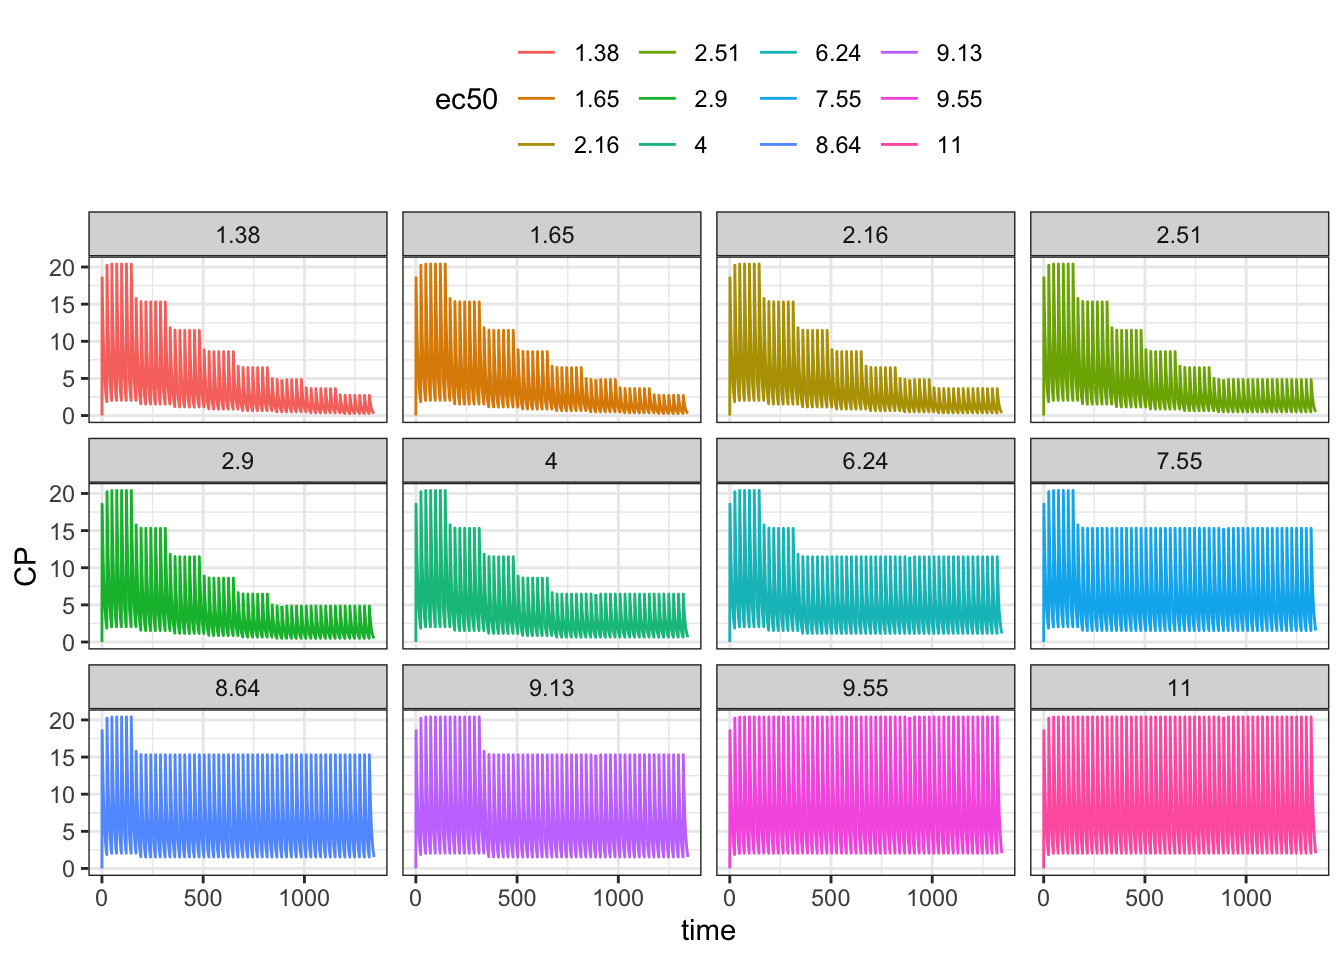
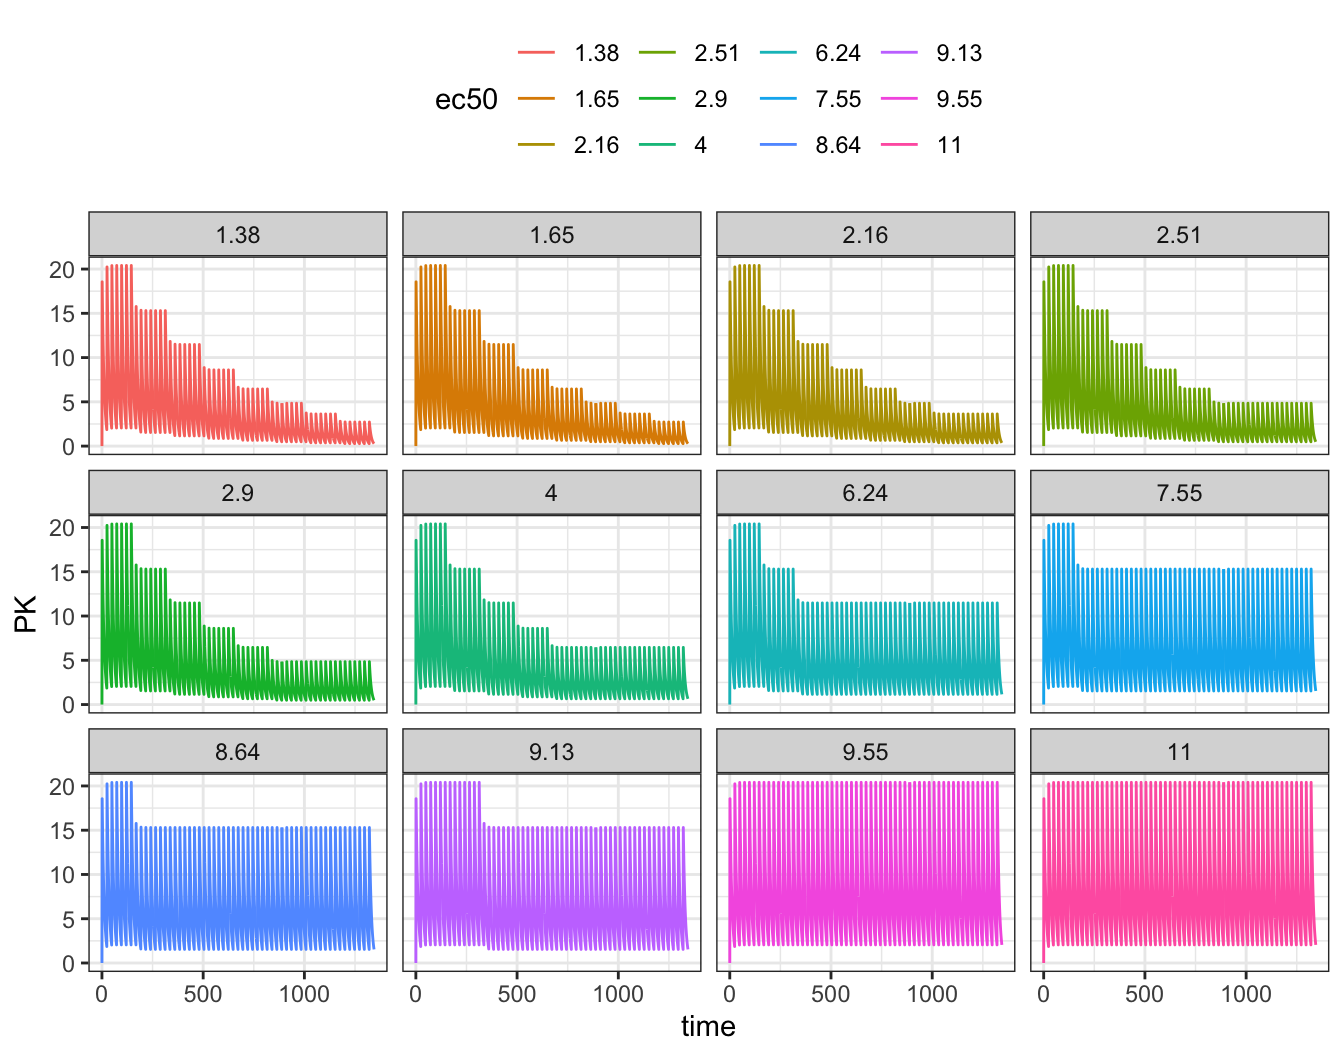
clean up

diff --git a/docs/posts/2024-new-1-4-0-evtools.html b/docs/posts/2024-new-1-4-0-evtools.html
@@ -732,7 +732,7 @@ See the full model 4 code
 <span id="cb29-39"><a href="#cb29-39" aria-hidden="true" tabindex="-1"></a>dxdt_PD <span class="op">=</span> KIN <span class="op">*</span> <span class="op">(</span><span class="dv">1</span><span class="op">-</span>inh<span class="op">)</span> <span class="op">-</span> KOUT <span class="op">*</span> PD<span class="op">;</span></span>
 <span id="cb29-40"><a href="#cb29-40" aria-hidden="true" tabindex="-1"></a></span>
 <span id="cb29-41"><a href="#cb29-41" aria-hidden="true" tabindex="-1"></a>$ERROR</span>
-<span id="cb29-42"><a href="#cb29-42" aria-hidden="true" tabindex="-1"></a>capture CP <span class="op">=</span> CENT<span class="op">/</span>V<span class="op">;</span></span>
+<span id="cb29-42"><a href="#cb29-42" aria-hidden="true" tabindex="-1"></a>capture PK <span class="op">=</span> CENT<span class="op">/</span>V<span class="op">;</span></span>
 <span id="cb29-43"><a href="#cb29-43" aria-hidden="true" tabindex="-1"></a></span>
 <span id="cb29-44"><a href="#cb29-44" aria-hidden="true" tabindex="-1"></a><span class="cf">if</span><span class="op">(</span>fmod<span class="op">(</span>TIME<span class="op">,</span> <span class="dv">168</span><span class="op">)==</span><span class="dv">0</span> <span class="op">&amp;&amp;</span> PD <span class="op">&lt;</span> <span class="dv">3000</span><span class="op">)</span> <span class="op">{</span></span>
 <span id="cb29-45"><a href="#cb29-45" aria-hidden="true" tabindex="-1"></a>  reg<span class="op">.</span>amt<span class="op">(</span>reg<span class="op">.</span>amt<span class="op">()</span> <span class="op">*</span> <span class="fl">0.75</span><span class="op">);</span></span>
@@ -754,7 +754,7 @@ See the full model 4 code
 <div class="sourceCode cell-code" id="cb30"><pre class="sourceCode r code-with-copy"><code class="sourceCode r"><span id="cb30-1"><a href="#cb30-1" aria-hidden="true" tabindex="-1"></a>idata <span class="ot">&lt;-</span> <span class="fu">expand.idata</span>(<span class="at">ID =</span> <span class="fu">seq</span>(<span class="dv">12</span>), <span class="at">DOSE =</span> <span class="dv">200</span>, <span class="at">UNTIL =</span> <span class="dv">2400</span>)</span></code><button title="Copy to Clipboard" class="code-copy-button"><i class="bi"></i></button></pre></div>
 </div>
 <div class="cell">
-<div class="sourceCode cell-code" id="cb31"><pre class="sourceCode r code-with-copy"><code class="sourceCode r"><span id="cb31-1"><a href="#cb31-1" aria-hidden="true" tabindex="-1"></a>mod <span class="ot">&lt;-</span> <span class="fu">mread</span>(<span class="st">"evtools-4.mod"</span>, <span class="at">outvars =</span> <span class="st">"PD,CP,dose,ec50"</span>)</span></code><button title="Copy to Clipboard" class="code-copy-button"><i class="bi"></i></button></pre></div>
+<div class="sourceCode cell-code" id="cb31"><pre class="sourceCode r code-with-copy"><code class="sourceCode r"><span id="cb31-1"><a href="#cb31-1" aria-hidden="true" tabindex="-1"></a>mod <span class="ot">&lt;-</span> <span class="fu">mread</span>(<span class="st">"evtools-4.mod"</span>, <span class="at">outvars =</span> <span class="st">"PK,PD,dose,ec50"</span>)</span></code><button title="Copy to Clipboard" class="code-copy-button"><i class="bi"></i></button></pre></div>
 <div class="cell-output cell-output-stderr">
 <pre><code>Building evtools-4_mod ... done.</code></pre>
 </div>
@@ -763,14 +763,13 @@ See the full model 4 code
 <span id="cb33-3"><a href="#cb33-3" aria-hidden="true" tabindex="-1"></a>out <span class="ot">&lt;-</span> <span class="fu">mrgsim</span>(</span>
 <span id="cb33-4"><a href="#cb33-4" aria-hidden="true" tabindex="-1"></a>  mod, </span>
 <span id="cb33-5"><a href="#cb33-5" aria-hidden="true" tabindex="-1"></a>  <span class="at">idata =</span> idata, </span>
-<span id="cb33-6"><a href="#cb33-6" aria-hidden="true" tabindex="-1"></a>  <span class="at">carry_out =</span> <span class="st">"dose_start = DOSE"</span>,</span>
-<span id="cb33-7"><a href="#cb33-7" aria-hidden="true" tabindex="-1"></a>  <span class="at">end =</span> <span class="dv">8</span><span class="sc">*</span><span class="dv">168</span></span>
-<span id="cb33-8"><a href="#cb33-8" aria-hidden="true" tabindex="-1"></a>)</span></code><button title="Copy to Clipboard" class="code-copy-button"><i class="bi"></i></button></pre></div>
+<span id="cb33-6"><a href="#cb33-6" aria-hidden="true" tabindex="-1"></a>  <span class="at">end =</span> <span class="dv">8</span><span class="sc">*</span><span class="dv">168</span></span>
+<span id="cb33-7"><a href="#cb33-7" aria-hidden="true" tabindex="-1"></a>)</span></code><button title="Copy to Clipboard" class="code-copy-button"><i class="bi"></i></button></pre></div>
 </div>
 <p>Look at PK, PD, and dose versus time; I’ll facet the plots by the simulated EC50, from lowest to highest.</p>
 <p>First, concentration versus time</p>
 <div class="cell">
-<div class="sourceCode cell-code" id="cb34"><pre class="sourceCode r code-with-copy"><code class="sourceCode r"><span id="cb34-1"><a href="#cb34-1" aria-hidden="true" tabindex="-1"></a><span class="fu">ggplot</span>(out, <span class="fu">aes</span>(time, CP, <span class="at">col =</span> ec50)) <span class="sc">+</span> </span>
+<div class="sourceCode cell-code" id="cb34"><pre class="sourceCode r code-with-copy"><code class="sourceCode r"><span id="cb34-1"><a href="#cb34-1" aria-hidden="true" tabindex="-1"></a><span class="fu">ggplot</span>(out, <span class="fu">aes</span>(time, PK, <span class="at">col =</span> ec50)) <span class="sc">+</span> </span>
 <span id="cb34-2"><a href="#cb34-2" aria-hidden="true" tabindex="-1"></a>  <span class="fu">geom_line</span>() <span class="sc">+</span> <span class="fu">facet_wrap</span>(<span class="sc">~</span>ec50)</span></code><button title="Copy to Clipboard" class="code-copy-button"><i class="bi"></i></button></pre></div>
 <div class="cell-output-display">
 <div>
@@ -780,10 +779,11 @@ See the full model 4 code
 </div>
 </div>
 </div>
-<p>Next, pharmacodynamics versus time</p>
+<p>Next, pharmacodynamics versus time; remember, we’re trying to keep the predose response above 3,000</p>
 <div class="cell">
 <div class="sourceCode cell-code" id="cb35"><pre class="sourceCode r code-with-copy"><code class="sourceCode r"><span id="cb35-1"><a href="#cb35-1" aria-hidden="true" tabindex="-1"></a><span class="fu">ggplot</span>(out, <span class="fu">aes</span>(time, PD, <span class="at">col =</span> ec50)) <span class="sc">+</span> </span>
-<span id="cb35-2"><a href="#cb35-2" aria-hidden="true" tabindex="-1"></a>  <span class="fu">geom_line</span>() <span class="sc">+</span> <span class="fu">facet_wrap</span>(<span class="sc">~</span>ec50)</span></code><button title="Copy to Clipboard" class="code-copy-button"><i class="bi"></i></button></pre></div>
+<span id="cb35-2"><a href="#cb35-2" aria-hidden="true" tabindex="-1"></a>  <span class="fu">geom_hline</span>(<span class="at">yintercept =</span> <span class="dv">3000</span>, <span class="at">lty =</span> <span class="dv">2</span>) <span class="sc">+</span> </span>
+<span id="cb35-3"><a href="#cb35-3" aria-hidden="true" tabindex="-1"></a>  <span class="fu">geom_line</span>() <span class="sc">+</span> <span class="fu">facet_wrap</span>(<span class="sc">~</span>ec50)</span></code><button title="Copy to Clipboard" class="code-copy-button"><i class="bi"></i></button></pre></div>
 <div class="cell-output-display">
 <div>
 <figure class="figure">
@@ -808,34 +808,34 @@ See the full model 4 code
 <div class="cell">
 <div class="sourceCode cell-code" id="cb37"><pre class="sourceCode r code-with-copy"><code class="sourceCode r"><span id="cb37-1"><a href="#cb37-1" aria-hidden="true" tabindex="-1"></a>out <span class="sc">%&gt;%</span> <span class="fu">group_by</span>(ID) <span class="sc">%&gt;%</span> <span class="fu">slice</span>(<span class="fu">n</span>()) <span class="sc">%&gt;%</span> <span class="fu">ungroup</span>() <span class="sc">%&gt;%</span> <span class="fu">arrange</span>(ec50)</span></code><button title="Copy to Clipboard" class="code-copy-button"><i class="bi"></i></button></pre></div>
 <div class="cell-output cell-output-stdout">
-<pre><code># A tibble: 12 × 7
-      ID  time dose_start    PD ec50     CP  dose
-   &lt;dbl&gt; &lt;dbl&gt;      &lt;dbl&gt; &lt;dbl&gt; &lt;fct&gt; &lt;dbl&gt; &lt;dbl&gt;
- 1     9  1344        200 3078. 1.38  0.273  26.7
- 2     7  1344        200 3261. 1.65  0.273  26.7
- 3    11  1344        200 3256. 2.16  0.364  35.6
- 4    12  1344        200 3113. 2.51  0.486  47.5
- 5     6  1344        200 3261. 2.9   0.486  47.5
- 6    10  1344        200 3298. 4     0.647  63.3
- 7     5  1344        200 3161. 6.24  1.15  112. 
- 8     8  1344        200 3059. 7.55  1.53  150  
- 9     3  1344        200 3201. 8.64  1.53  150  
-10     1  1344        200 3258. 9.13  1.53  150  
-11     4  1344        200 3002. 9.55  2.05  200  
-12     2  1344        200 3152. 11    2.05  200  </code></pre>
+<pre><code># A tibble: 12 × 6
+      ID  time    PD ec50     PK  dose
+   &lt;dbl&gt; &lt;dbl&gt; &lt;dbl&gt; &lt;fct&gt; &lt;dbl&gt; &lt;dbl&gt;
+ 1     9  1344 3078. 1.38  0.273  26.7
+ 2     7  1344 3261. 1.65  0.273  26.7
+ 3    11  1344 3256. 2.16  0.364  35.6
+ 4    12  1344 3113. 2.51  0.486  47.5
+ 5     6  1344 3261. 2.9   0.486  47.5
+ 6    10  1344 3298. 4     0.647  63.3
+ 7     5  1344 3161. 6.24  1.15  112. 
+ 8     8  1344 3059. 7.55  1.53  150  
+ 9     3  1344 3201. 8.64  1.53  150  
+10     1  1344 3258. 9.13  1.53  150  
+11     4  1344 3002. 9.55  2.05  200  
+12     2  1344 3152. 11    2.05  200  </code></pre>
 </div>
 </div>
 </section>
 </section>
 <section id="dynamic-change-in-dosing-interval" class="level2" data-number="8">
 <h2 data-number="8" class="anchored" data-anchor-id="dynamic-change-in-dosing-interval"><span class="header-section-number">8</span> Dynamic change in dosing interval</h2>
-<p>Model <code>evtools-5.mod</code> gives an example of dynamically changing the dose interval using <code>evt::regmen</code>.</p>
-<p>In this last example, we’ll change the dosing interval over the course of the simulation. To start, dosing will be every 24 hours. Then, the dosing interval will be cut in half (every 12 hours) while doubling the dose amount; this will happen after the first week of dosing.</p>
+<p>Model <code>evtools-5.mod</code> gives an example of dynamically changing the dose interval using <code>evt::regmen</code>. When we’ve done dynamic dosing in the past, it was always pretty easy to change the <em>dose</em> during the simulation, maybe through the bioavailability parameter. But changing the interval seemed impossible … until now.</p>
+<p>To start, doses will be administered every 24 hours. Then, the dosing interval will be cut in half (every 12 hours) while doubling the dose amount; this will happen after the first week of dosing.</p>
 <div class="cell">
 <div class="sourceCode cell-code" id="cb39"><pre class="sourceCode c code-with-copy"><code class="sourceCode c"><span id="cb39-1"><a href="#cb39-1" aria-hidden="true" tabindex="-1"></a>$ERROR</span>
 <span id="cb39-2"><a href="#cb39-2" aria-hidden="true" tabindex="-1"></a><span class="cf">if</span><span class="op">(</span>evt<span class="op">::</span>near<span class="op">(</span>TIME<span class="op">,</span> <span class="fl">168.0</span><span class="op">)</span> <span class="op">&amp;&amp;</span> EVID <span class="op">&gt;</span> <span class="dv">0</span><span class="op">)</span> <span class="op">{</span></span>
 <span id="cb39-3"><a href="#cb39-3" aria-hidden="true" tabindex="-1"></a>  reg<span class="op">.</span>ii<span class="op">(</span><span class="dv">12</span><span class="op">);</span></span>
-<span id="cb39-4"><a href="#cb39-4" aria-hidden="true" tabindex="-1"></a>  reg<span class="op">.</span>amt<span class="op">(</span>DOSE<span class="op">/</span><span class="dv">2</span><span class="op">);</span></span>
+<span id="cb39-4"><a href="#cb39-4" aria-hidden="true" tabindex="-1"></a>  reg<span class="op">.</span>amt<span class="op">(</span>DOSE<span class="op">/</span><span class="fl">2.0</span><span class="op">);</span></span>
 <span id="cb39-5"><a href="#cb39-5" aria-hidden="true" tabindex="-1"></a><span class="op">}</span></span></code><button title="Copy to Clipboard" class="code-copy-button"><i class="bi"></i></button></pre></div>
 </div>
 <p>Notice I’m using <code>evt::near()</code> here to compare two floating point numbers. This works similar to <code>dplyr::near()</code>, including default tolerance of 1e-8.</p>
@@ -849,8 +849,8 @@ See the full model 4 code
 <span id="cb40-5"><a href="#cb40-5" aria-hidden="true" tabindex="-1"></a><span class="op">}</span></span>
 <span id="cb40-6"><a href="#cb40-6" aria-hidden="true" tabindex="-1"></a></span>
 <span id="cb40-7"><a href="#cb40-7" aria-hidden="true" tabindex="-1"></a><span class="cf">if</span><span class="op">(</span>evt<span class="op">::</span>near<span class="op">(</span>TIME<span class="op">,</span> <span class="dv">300</span><span class="op">)</span> <span class="op">&amp;&amp;</span> EVID <span class="op">&gt;</span> <span class="dv">0</span><span class="op">)</span> <span class="op">{</span></span>
-<span id="cb40-8"><a href="#cb40-8" aria-hidden="true" tabindex="-1"></a>  reg<span class="op">.</span>ii<span class="op">(</span>reg<span class="op">.</span>ii<span class="op">()*</span><span class="fl">4.0</span><span class="op">);</span></span>
-<span id="cb40-9"><a href="#cb40-9" aria-hidden="true" tabindex="-1"></a>  reg<span class="op">.</span>amt<span class="op">(</span>reg<span class="op">.</span>amt<span class="op">()*</span><span class="fl">4.0</span><span class="op">);</span></span>
+<span id="cb40-8"><a href="#cb40-8" aria-hidden="true" tabindex="-1"></a>  reg<span class="op">.</span>ii<span class="op">(</span>reg<span class="op">.</span>ii<span class="op">()*</span><span class="dv">4</span><span class="op">);</span></span>
+<span id="cb40-9"><a href="#cb40-9" aria-hidden="true" tabindex="-1"></a>  reg<span class="op">.</span>amt<span class="op">(</span>reg<span class="op">.</span>amt<span class="op">()*</span><span class="dv">4</span><span class="op">);</span></span>
 <span id="cb40-10"><a href="#cb40-10" aria-hidden="true" tabindex="-1"></a><span class="op">}</span></span></code><button title="Copy to Clipboard" class="code-copy-button"><i class="bi"></i></button></pre></div>
 </div>
 <div class="callout callout-style-simple callout-note callout-titled">
@@ -954,7 +954,7 @@ See the full model 5 code
 </div>
 <p>But passed in a time vector of</p>
 <div class="cell">
-<div class="sourceCode cell-code" id="cb48"><pre class="sourceCode r code-with-copy"><code class="sourceCode r"><span id="cb48-1"><a href="#cb48-1" aria-hidden="true" tabindex="-1"></a><span class="fu">seq</span>(<span class="dv">0</span>,<span class="dv">24</span>,<span class="dv">1</span>)</span></code><button title="Copy to Clipboard" class="code-copy-button"><i class="bi"></i></button></pre></div>
+<div class="sourceCode cell-code" id="cb48"><pre class="sourceCode r code-with-copy"><code class="sourceCode r"><span id="cb48-1"><a href="#cb48-1" aria-hidden="true" tabindex="-1"></a><span class="fu">seq</span>(<span class="dv">0</span>, <span class="dv">24</span>, <span class="dv">1</span>)</span></code><button title="Copy to Clipboard" class="code-copy-button"><i class="bi"></i></button></pre></div>
 <div class="cell-output cell-output-stdout">
 <pre><code> [1]  0  1  2  3  4  5  6  7  8  9 10 11 12 13 14 15 16 17 18 19 20 21 22 23 24</code></pre>
 </div>

diff --git a/docs/index.html b/docs/index.html
@@ -276,7 +276,7 @@ window.Quarto = {
 
 <div class="quarto-listing quarto-listing-container-default" id="listing-listing">
 <div class="list quarto-listing-default">
-<div class="quarto-post image-right" data-index="0" data-categories="dynamic-dosing" data-listing-date-sort="1707976800000" data-listing-file-modified-sort="1708064393573" data-listing-date-modified-sort="NaN" data-listing-reading-time-sort="14" data-listing-word-count-sort="2797">
+<div class="quarto-post image-right" data-index="0" data-categories="dynamic-dosing" data-listing-date-sort="1707976800000" data-listing-file-modified-sort="1708065248323" data-listing-date-modified-sort="NaN" data-listing-reading-time-sort="15" data-listing-word-count-sort="2837">
 <div class="thumbnail">
 <p><a href="./posts/2024-new-1-4-0-evtools.html" class="no-external"></a></p><a href="./posts/2024-new-1-4-0-evtools.html" class="no-external">
 <p class="card-img-top"><img src="posts/2024-new-1-4-0-evtools_files/figure-html/unnamed-chunk-10-1.png"  class="thumbnail-image card-img"/></p>
